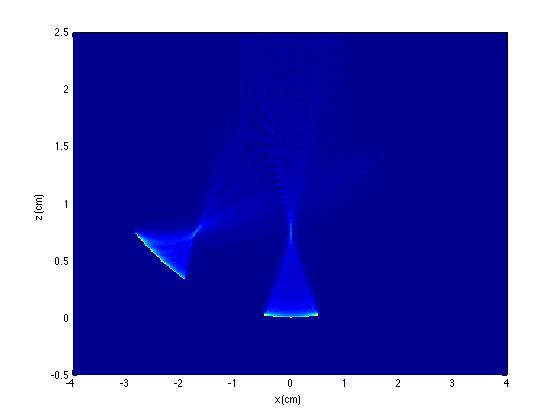
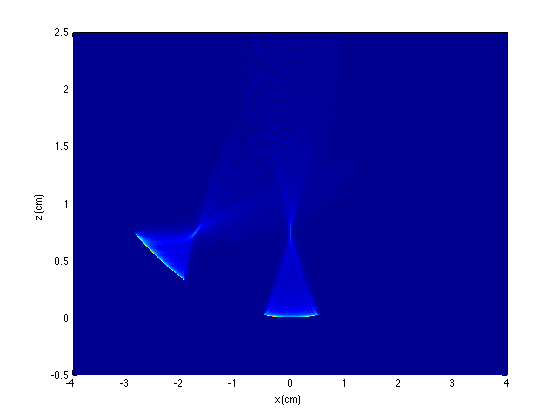
off axis focus: Re-create image at higher resolution.

diff --git a/demos/off_axis_demo.m b/demos/off_axis_demo.m
@@ -71,9 +71,9 @@ function [x, y, z, coord_grid] = get_x_y_z_coord_grid()
     zmin = -0.5e-2;
     zmax = 2.5e-2;
 
-    xpoints = 300;
+    xpoints = 500;
     ypoints = 1;
-    zpoints = 300;
+    zpoints = 500;
 
     dx = (xmax-xmin)/xpoints;
     dy = (ymax-ymin)/ypoints;
